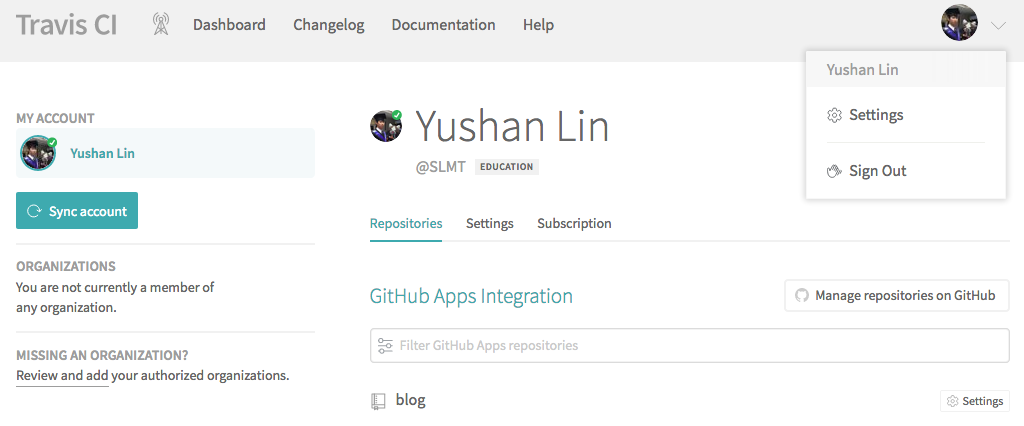
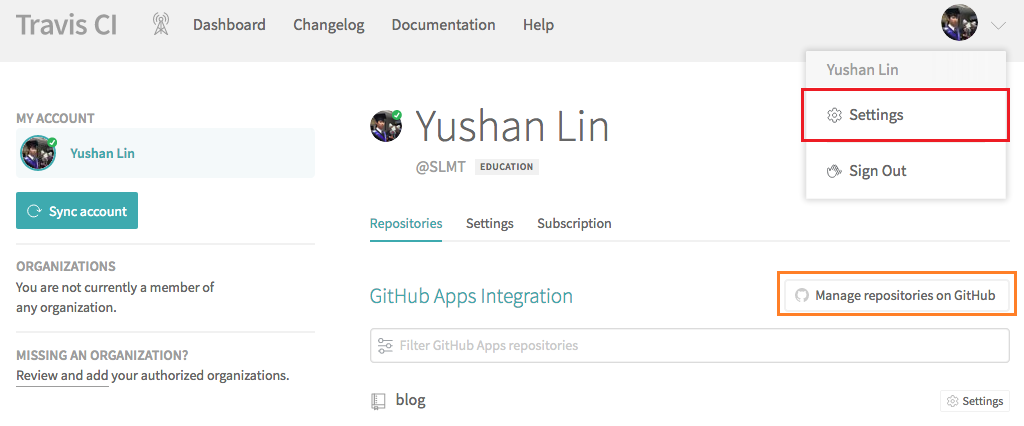
Finish a post

diff --git a/source/_posts/2019-04-26-hexo-auto-deploy.md b/source/_posts/2019-04-26-hexo-auto-deploy.md
@@ -7,64 +7,67 @@ tags: [hexo, blog, deploy, travis-ci]
 
 最近將我的部落格改成使用 [Travis CI][1] 來自動發布，幫我省去在自己電腦上編譯再上傳到 Github Pages 的麻煩。 因此我將我的作法寫下來，幫助其他用 Hexo 建立 Blog 的人來設定自動發布。
 
-<!--more-->
-
-## 本文適合族群
-
-本文適合給跟我一樣使用 Hexo 來建立 blog，而且覺得要在本地端先用 `hexo generate` 再另外丟到其他 branch 或 repository 很麻煩的人。
-
 ## 概念
 
 這邊使用的方式是讓 Travis CI 來幫我們自動產生網頁，並將產生後的網頁自動上傳到 Github Pages 的做法。
 
-Travis CI 是一種 Continous Integration 的服務，他可以連結到 Github 的 repository 上面，並自動幫你執行預先寫在 repository 上面的 script。 Travis CI 通常用於測試 repository 上面的程式碼是否正常，能否正常編譯，是否能透過 test cases 等等。
+Travis CI 是一種 continous integration (CI) 的服務，他可以連結到 Github 的 repository 上面，並自動幫你執行預先寫好的 script。 Travis CI 通常用於測試 repository 上面的程式碼是否正常，能否正常編譯，是否能透過 test cases 等等。 特別很多 open source project 會在接受其他人的 merge request 前會先確定通過 Travis CI 的測試。
 
-Travis CI 會在 repository 上有新的 commit 上傳時被自動觸發，並且使用者可以提供自己的 script 供 Travis CI 執行各種工作，因此許多人會用 Travis CI 來自動發布程式碼。
+因為 Travis CI 可以執行自訂的 script，並且會在 repository 上有新的 commit 上傳時被自動觸發，因此許多人會用 Travis CI 來自動發布程式碼。
 
 ## 步驟
 
-以下說明如何用 Travis CI 自動發布。 假設你在 Github 上已經擁有一個 repository。
+以下說明如何用 Travis CI 自動發布。 假設你在 Github 上已經擁有一個 repository，叫做 `blog`。
 
 
 ### 第一步：申請 Travis CI 帳號
 
 請先到 [Travis CI][1] 網站申請一個帳號。
 
-注意如果搜尋的話會發現 Travis CI 有兩個網站：一個是 travis-ci.com，另一個是 travis-ci.org。 .org 是比較早出來的服務，.com 則是後來為了商業目的而建立的網站。 [官方聲明][2] 建議所有的 project，包括 open source project 都使用 .com 的服務。
+注意如果搜尋的話會發現 Travis CI 有兩個網站：一個是 [travis-ci.com][1]，另一個是 [travis-ci.org][4]。 .org 是比較早出來的服務，.com 則是後來為了商業目的而建立的網站。 [官方聲明][2] 建議所有的 project，包括 open source project 都使用 .com 的服務。
 
 
 ### 第二步：在 Travis CI 上連結 Github Project
 
 接下來要讓 Travis CI 知道你的 repository 的存在。
 
-首先先到 Travis CI 上的設定畫面
+首先先到 Travis CI 上的設定畫面 (紅框處)，然後選擇 Manage Repositories on Github (橘框處)。
 
-![Travis CI 01](2019-04-26-hexo-auto-deploy/travis-ci-1.png)
+![Travis CI 01](travis-ci-1.png)
 
-選擇 Manage Repositories on Github
 
-選擇自己 blog 的 repository。
+選擇自己 blog 的 repository (橘框處)。 或者你也可以選擇上面的「All repositories」連結所有的 repo。放心，這不會讓 Travis CI 有辦法對你的 Github repo 有辦法作任何更動。 完成後選擇 Approve (下面的綠色按鈕)。
 
-Approve
+![Link Repository](link-repo.png)
 
 
 ### 第三步：申請 Github Access Token
 
 這步驟要到 Github 上申請一個 token，讓 Travis CI 取得上傳網頁到自己的 Github repository 上的權力。
 
-到 Github 上的個人設定頁面。
+首先先到 Github 上的個人設定頁面 (點選紅框處)，並選擇 Developer Settings 進入開發者設定頁面 (橘框處)。
 
-選擇 Developer Settings 進入開發者設定頁面。
+![Github Token 1](github-token-1.PNG)
 
-點選 Personal Access Token。
+點選 Personal Access Token (紅框處)，然後選擇 Generate new token (橘框處)。
 
-Generate new token
+![Github Token 2](github-token-2.png)
 
-設定 token 名稱，並給予 repo -> public_repo 權限。
+設定 token 名稱，隨便命名都可以，並點選 repo -> public_repo ，以給他存取 public repo 的權限。 這是為了要讓它能夠上傳資料到 repo。
 
-將 token 複製下來，注意不要讓其他人取得這個 token。
+![Github Token 3](github-token-3.png)
 
-把 token 貼到 Travis CI 的設定頁面上。
+將 token 複製下來 (綠底處)，注意不要讓其他人取得這個 token，因為其他人取得就可以隨意修改你的 repo 資料。
+
+![Github Token 4](github-token-4.png)
+
+回到 Travis CI 設定頁面，進入自己 repo 的設定畫面 (紅框處)。
+
+![Github Token 5](github-token-5.png)
+
+找到最下面的 Environment Variables 區域，在 key 的位置輸入 `GITHUB_TOKEN` (紅色箭頭)，value 位置放上稍早複製的 token (橘色箭頭)，然後點選右邊的 Add (綠色箭頭)。
+
+![Github Token 6](github-token-6.png)
 
 ### 第四步：在 Project 內加入 Travis CI 設定檔
 
@@ -108,7 +111,11 @@ deploy:
 
 ### 第五步：觀察有沒有問題
 
-### 完成！
+最後只要上傳一個新的 commit 到 master branch，就會觸發 Travis CI 開始執行發布動作。 你可以到 Travis CI 的主畫面觀察，同時上面也會顯示執行的 log。 如果一切正常的話，就會如下圖顯示綠色勾勾的結果。
+
+![Test Result](result.png)
+
+### 恭喜你成功完成自動發布！
 
 ## 附錄：解說 `.travis.yml` 內容
 
@@ -121,7 +128,7 @@ node_js:
   - "10"
 ```
 
-這兩條設定分別指定這個 repository 要用 Node.js 的環境執行，並且要用第 10 版的 Node.js。
+這兩條設定分別指定這個 repository 要用 Node.js 的環境執行，並且要用第 10 版的 Node.js。 版本的部分也可以設定其他版本，或是 `stable`。 我使用 10 的原因是在於我某些特定的 module 必須要使用 10 版才能夠跑，如果用最新版則會執行失敗。
 
 ```yml
 branches:
@@ -136,7 +143,7 @@ cache:
   - npm
 ```
 
-這條設定會讓 Travis CI 保存 NPM 下載的 library。 因為 Travis CI 每次執行時都會使用一個全新的環境，如果保存之前下載過的 library 的話，可以節省重新下載 library 的時間。
+這條設定會讓 Travis CI 保存 npm 下載的 library。 因為 Travis CI 每次執行時都會使用一個全新的環境，如果保存之前下載過的 library 的話，可以節省重新下載 library 的時間。
 
 ```yml
 before_script:
@@ -164,8 +171,9 @@ deploy:
     branch: master
 ```
 
-這條設定是由 Travis CI 特別提供用來發布程式用的，其中 `provider: pages` 設定要發布到 Github Pages，這邊會由 Travis CI 自己想辦法把指定內容上傳上去。 `github-token: $GITHUB_TOKEN` 這邊會引入稍早設定的 token，用來取得上傳的權限。 `local-dir: public` 指定上傳 `public` 資料夾內的內容。 `on: branch: master` 這條有點特別，我原先以為是上傳的目的地 branch，但其實指的是 source branch。
+這條設定是由 Travis CI 特別提供用來發布程式用的，其中 `provider: pages` 設定要發布到 Github Pages，這邊會由 Travis CI 自己想辦法把指定內容上傳上去。 `github-token: $GITHUB_TOKEN` 這邊會引入稍早設定的 token，用來取得上傳的權限。 `local-dir: public` 指定上傳 `public` 資料夾 (`hexo generate` 預設輸出的位置) 內的內容。 `on: branch: master` 這條有點特別，我原先以為是上傳的目的地 branch，但其實指的是 source branch。
 
 [1]: https://travis-ci.com/
 [2]: https://blog.travis-ci.com/2018-05-02-open-source-projects-on-travis-ci-com-with-github-apps
 [3]: https://docs.travis-ci.com/
+[4]: https://travis-ci.org/
